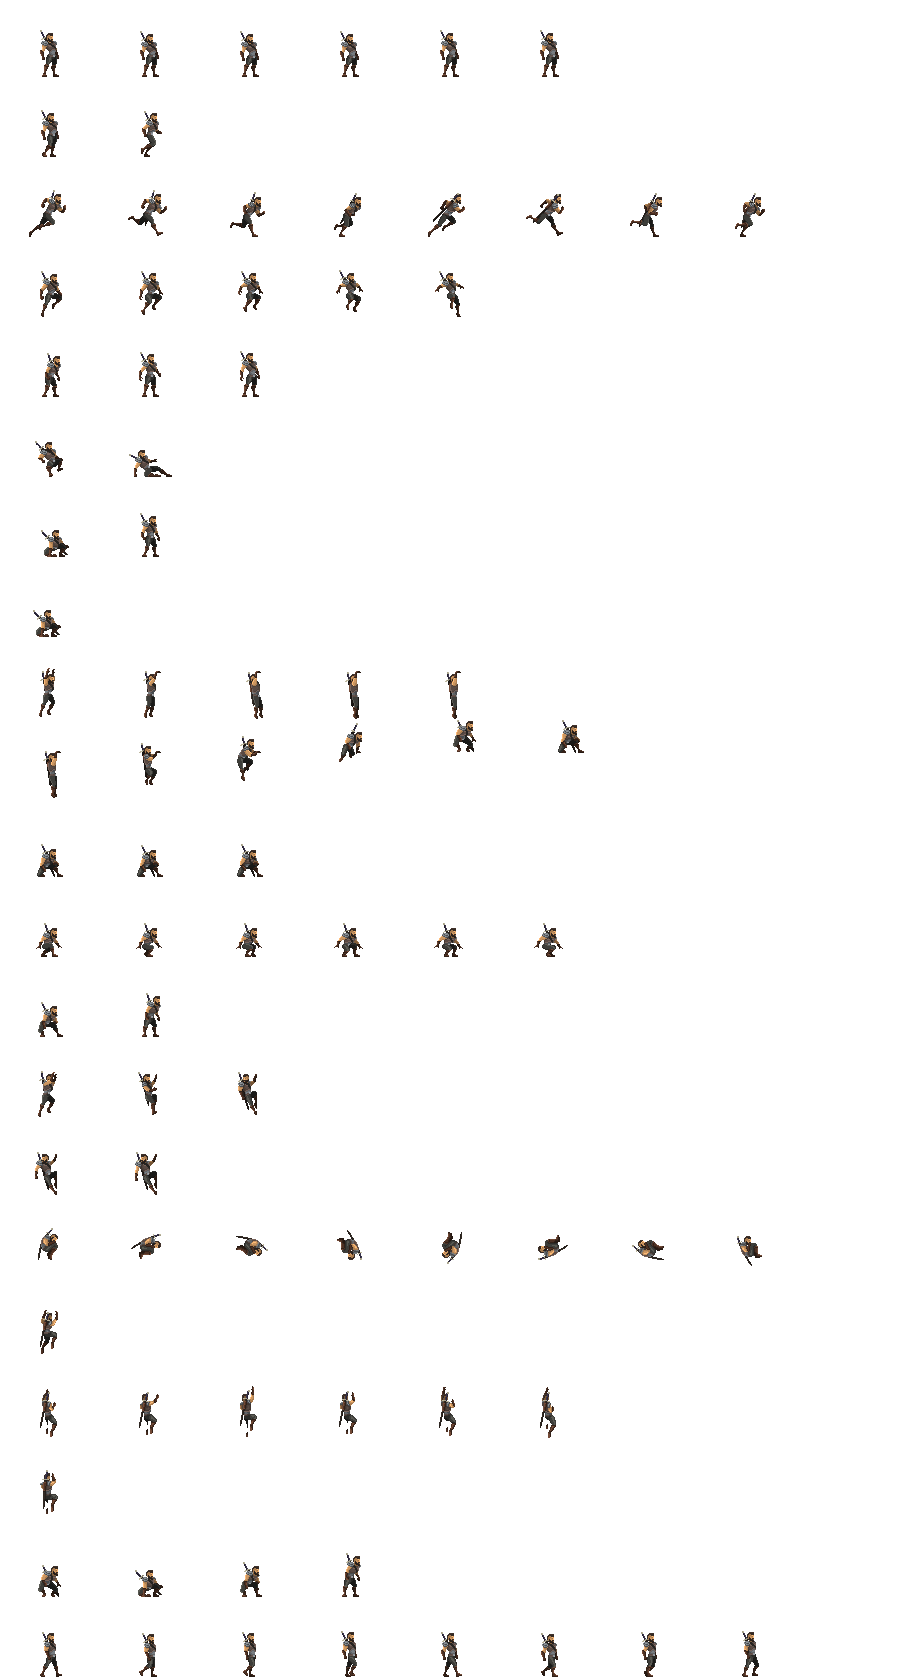
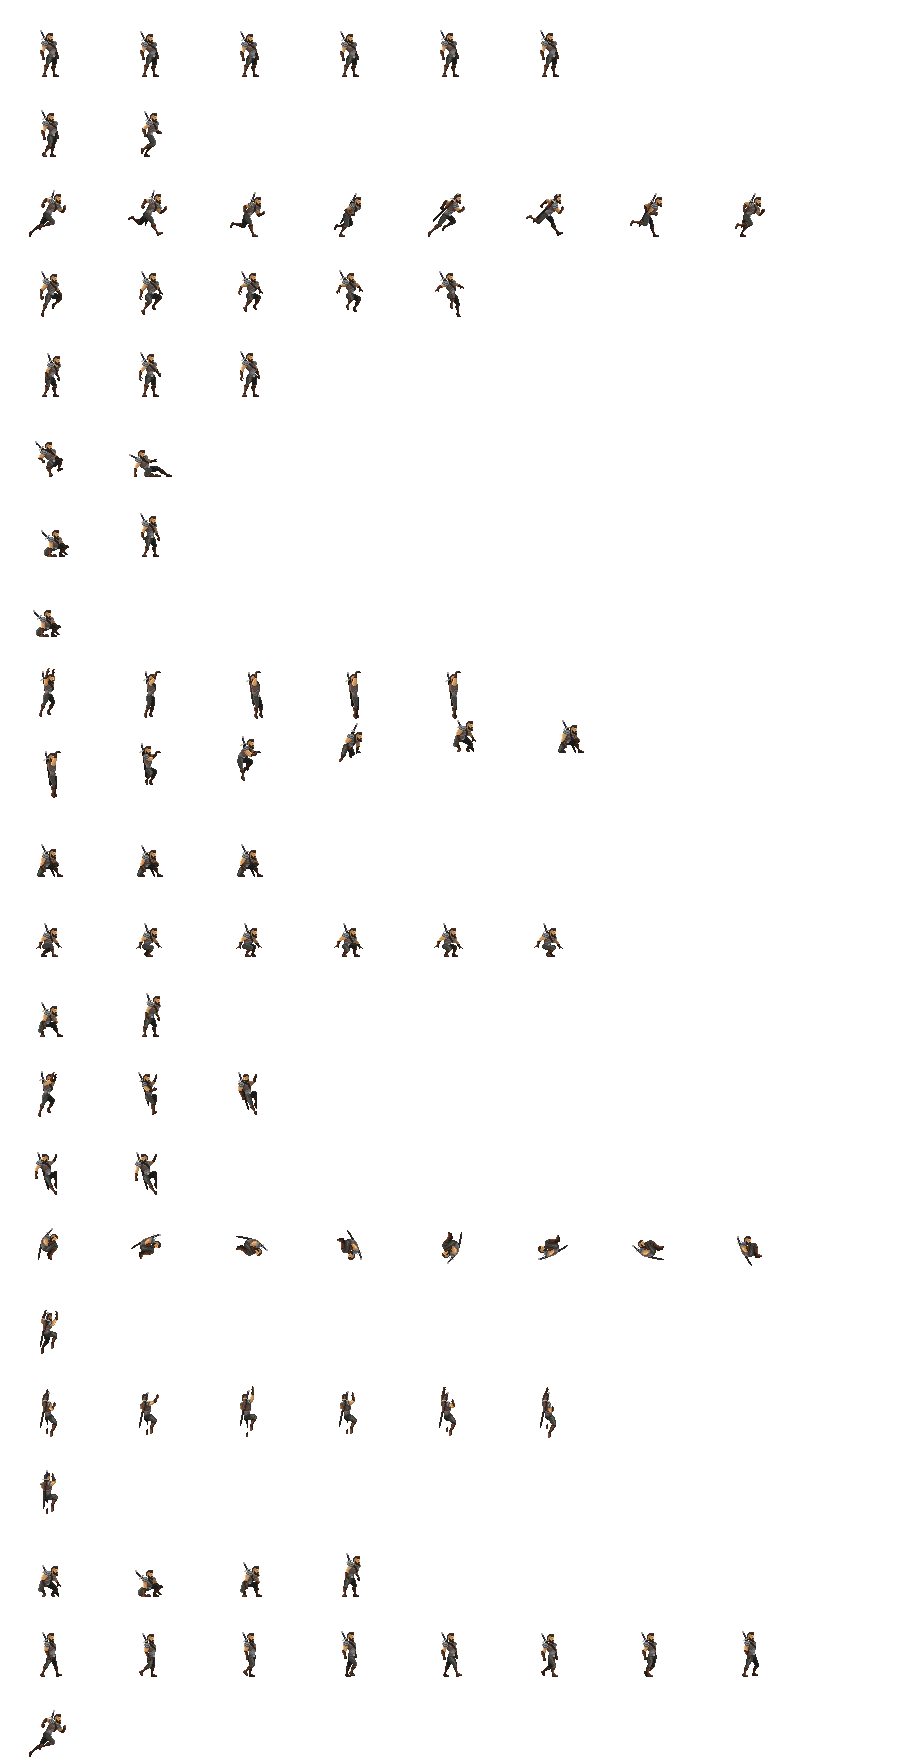
Levitation dash animation

diff --git a/Assets/Scripts/Entities/Player.cs b/Assets/Scripts/Entities/Player.cs
@@ -46,6 +46,7 @@ namespace Entities
         public PlayerLedgeClimbState LedgeClimbState { get; private set; }
         public PlayerWallJumpState WallJumpState { get; private set; }
         public PlayerOnWallState OnWallState { get; private set; }
+        public PlayerLevitationDashState LevitationDashState { get; private set; }
         #endregion
 
         public InputReader Input { get; private set; }
@@ -63,7 +64,7 @@ namespace Entities
             LedgeClimbState = new PlayerLedgeClimbState(stateMachine, this);
             WallJumpState = new PlayerWallJumpState(stateMachine, this);
             OnWallState = new PlayerOnWallState(stateMachine, this);
-
+            LevitationDashState = new PlayerLevitationDashState(stateMachine, this);
         }
 
         protected override void Start()

diff --git a/Assets/Scripts/FiniteStateMachine/PlayerStates/PlayerLevitationDashState.cs b/Assets/Scripts/FiniteStateMachine/PlayerStates/PlayerLevitationDashState.cs
@@ -1,0 +1,26 @@
+using Entities;
+
+namespace FiniteStateMachine.PlayerStates
+{
+    public class PlayerLevitationDashState : PlayerAbilityState
+    {
+        public PlayerLevitationDashState(StateMachine stateMachine, Player player) : base(stateMachine, player)
+        {
+        }
+
+        public override void Enter()
+        {
+            base.Enter();
+        }
+        public override void Update()
+        {
+            base.Update();
+        }
+
+        public override void Exit()
+        {
+            base.Exit();
+        }
+
+    }
+}
